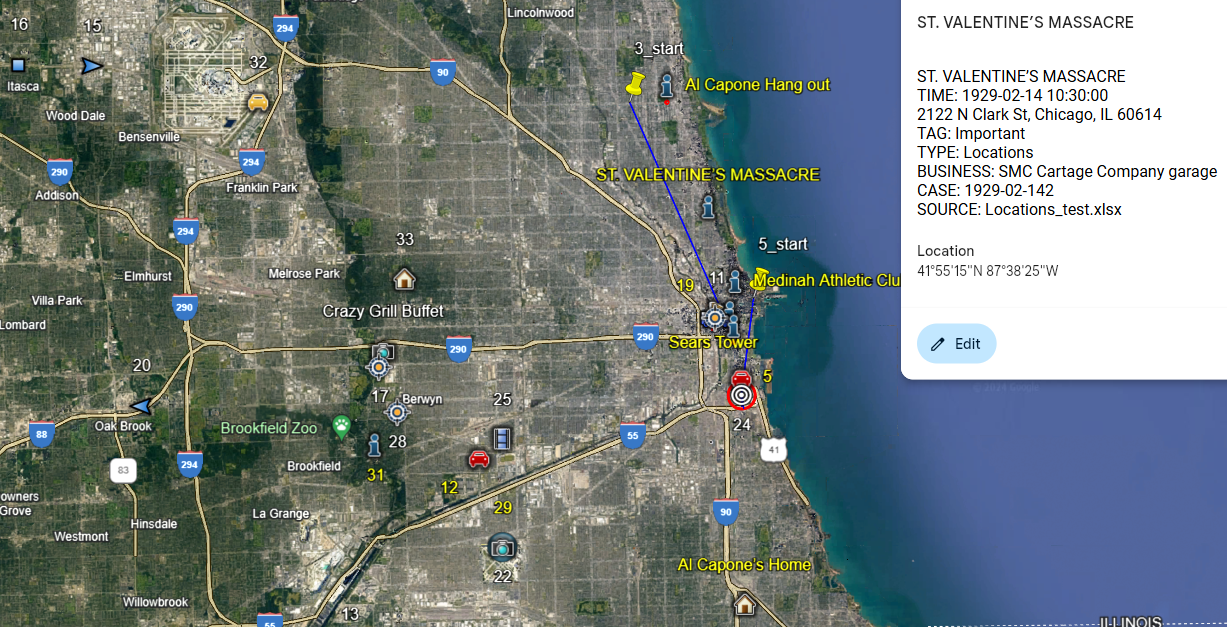
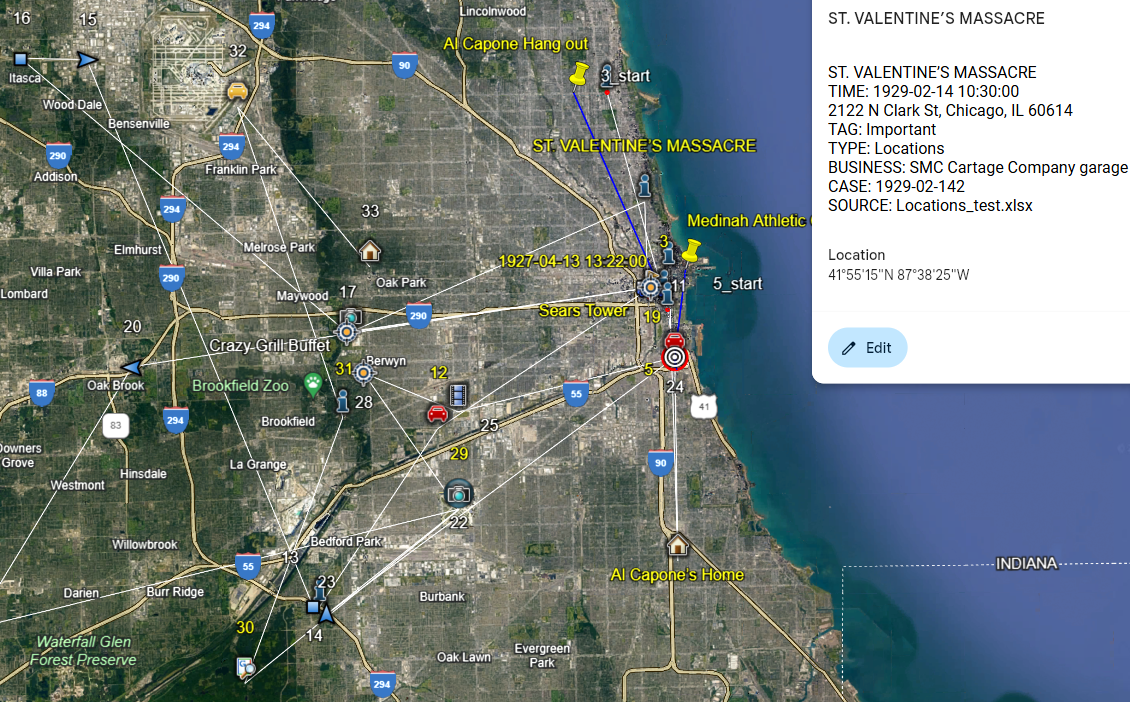
added a bonus travel_path.kml output

diff --git a/GPS2Address.py b/GPS2Address.py
@@ -73,7 +73,7 @@ if sys.version_info > (3, 7, 9) and os.name == "nt":
 
 author = 'LincolnLandForensics'
 description2 = "convert GPS coordinates to addresses or visa versa & create a KML file"
-version = '1.2.5'
+version = '1.2.6'
 
 # <<<<<<<<<<<<<<<<<<<<<<<<<<      Menu           >>>>>>>>>>>>>>>>>>>>>>>>>>
 
@@ -137,12 +137,12 @@ def main():
             msg_blurb_square(msg_blurb, color_green)
 
             # data = read_xlsx(input_xlsx)
-            data = read_locations(input_xlsx)
+            (data, coordinates) = read_locations(input_xlsx)
 
             # create kml file
             write_locations(data)   # ??
             write_kml(data)
-
+            travel_path_kml(coordinates)
             
             workbook.close()
             # print(f'{color_green}Writing to {output_xlsx} {color_reset}')
@@ -183,11 +183,12 @@ def main():
             msg_blurb_square(msg_blurb, color_green)
             
             # data = read_xlsx(input_xlsx)
-            data = read_locations(input_xlsx)
+            (data, coordinates) = read_locations(input_xlsx)
             data = read_gps(data)
             write_locations(data)
             write_kml(data)
-
+            
+            travel_path_kml(coordinates)
             workbook.close()
             msg_blurb = (f'Writing to {output_xlsx}')
             msg_blurb_square(msg_blurb, color_green)
@@ -212,11 +213,12 @@ def main():
                 write_locations(data)
             else:    
                 # data = read_xlsx(input_xlsx)
-                data = read_locations(input_xlsx)
+                (data, coordinates) = read_locations(input_xlsx)
+                # print(f'{coordinates}') # temp
                 # data = read_gps(data)
                 write_locations(data)
                 # write_kml(data)
-
+                travel_path_kml(coordinates)
                 workbook.close()
                 msg_blurb = (f'Writing to {output_xlsx}')
                 msg_blurb_square(msg_blurb, color_green)
@@ -337,6 +339,35 @@ def convert_timestamp(timestamp, time_orig, timezone):
 
     raise ValueError(f"{time_orig} Timestamp format not recognized")
 
+
+def travel_path_kml(coordinates):
+    '''
+    This reads latitude and longitude coordinates and generates a KML file with lines 
+    connecting the points and no icons displayed.
+    '''
+
+    kml = simplekml.Kml()
+    heat = kml.newfolder(name="travel_path")
+    output_file = "travel_path.kml"
+
+    # Create lines between consecutive points
+    for i in range(len(coordinates) - 1):
+        coord1 = coordinates[i]
+        coord2 = coordinates[i + 1]
+        heat.newlinestring(coords=[coord1, coord2])
+
+    # Ensure no icons are visible
+    heat.stylemap.normalstyle.iconstyle.scale = 0
+    heat.stylemap.normalstyle.iconstyle.icon.href = ''
+
+    # Ensure lines are displayed in red
+    heat.stylemap.normalstyle.linestyle.color = simplekml.Color.red
+
+    kml.save(output_file)
+
+    msg_blurb = (f'extra travel_path KML file {output_file} created successfully!')
+    msg_blurb_square(msg_blurb, color_blue)    
+    
 def kml_to_xlsx(kml_file, xlsx_file):
     data = []
     from pykml import parser    # pip install pykml
@@ -1040,7 +1071,8 @@ def read_locations(input_xlsx):
     except ValueError as e:
         print(f"Error reading : {input_xlsx}")
     data = []
-
+    coordinates = []
+    
 # active sheet (current sheet)
     active_sheet = wb.active
     global active_sheet_title
@@ -1404,6 +1436,10 @@ def read_locations(input_xlsx):
                 elif Altitude != '':
                     coordinate = f'{latitude},{longitude},{Altitude}'
 
+
+        if latitude != ''  and longitude != '': # test
+            coordinates.append((longitude, latitude))
+            
 # address
         address = row_data.get("Address")
         if address is None:
@@ -1723,6 +1759,22 @@ def read_locations(input_xlsx):
         elif type_data == "Videos":
             Icon = "Videos"
 
+        '''
+        Apple Maps Trips
+        Google Maps https://banner2.cleanpng.com/lnd/20240523/jeo/axziljwt9.webp
+        Lyft Last Known Location
+        Lyft Location Shortcuts
+        Parked Car Locations
+        PlaceCardTap
+        Apple Maps
+            Show
+        Significant Locations
+        Significant Locations Visits
+        Uber Cached Locations
+
+
+        '''
+
 
 # case    
         case = row_data.get("case")
@@ -1825,7 +1877,8 @@ def read_locations(input_xlsx):
         row_data["time_orig_start"] = time_orig_start
         row_data["timezone_start"] = timezone_start
 
-    return data
+    # print(f'coordinates2 = {coordinates}')   # temp
+    return (data, coordinates)
 
 def point_icon_maker(Icon):        
     # Define different default icons
@@ -2106,13 +2159,13 @@ def write_kml(data):
 
         if origin_latitude != '' and origin_longitude != '':
             point_start = kml.newpoint(
-                name=f"{no}_s",                
+                name=f"{no}_start",                
                 description=f"{description_start}",
                 coords=[(origin_longitude, origin_latitude)]
               
             )
 # Create line and specify style
-            line = kml.newlinestring(name="Line between points", coords=[(longitude, latitude), (origin_longitude, origin_latitude)])
+            line = kml.newlinestring(name="trip line", coords=[(longitude, latitude), (origin_longitude, origin_latitude)])
             line.style.linestyle.color = simplekml.Color.blue  # Make the line blue
             line.style.linestyle.width = 2  # Set line width
 
@@ -2133,7 +2186,7 @@ def write_locations(data):
     global worksheet
     worksheet = workbook.active
 
-    print(f'Reading {active_sheet_title} sheet\n')
+    # print(f'Reading {active_sheet_title} sheet\n')
     worksheet.title = active_sheet_title
     
     # worksheet.title = 'Locations'
@@ -2502,6 +2555,7 @@ if __name__ == '__main__':
 # <<<<<<<<<<<<<<<<<<<<<<<<<< Future Wishlist  >>>>>>>>>>>>>>>>>>>>>>>>>>
 
 """
+try Castviz
 fix radius_azimuth unsupported operand type(s) for /: 'str' and 'float'
 convert Radius to a int()
 integrate altitude & altitudeMode 
